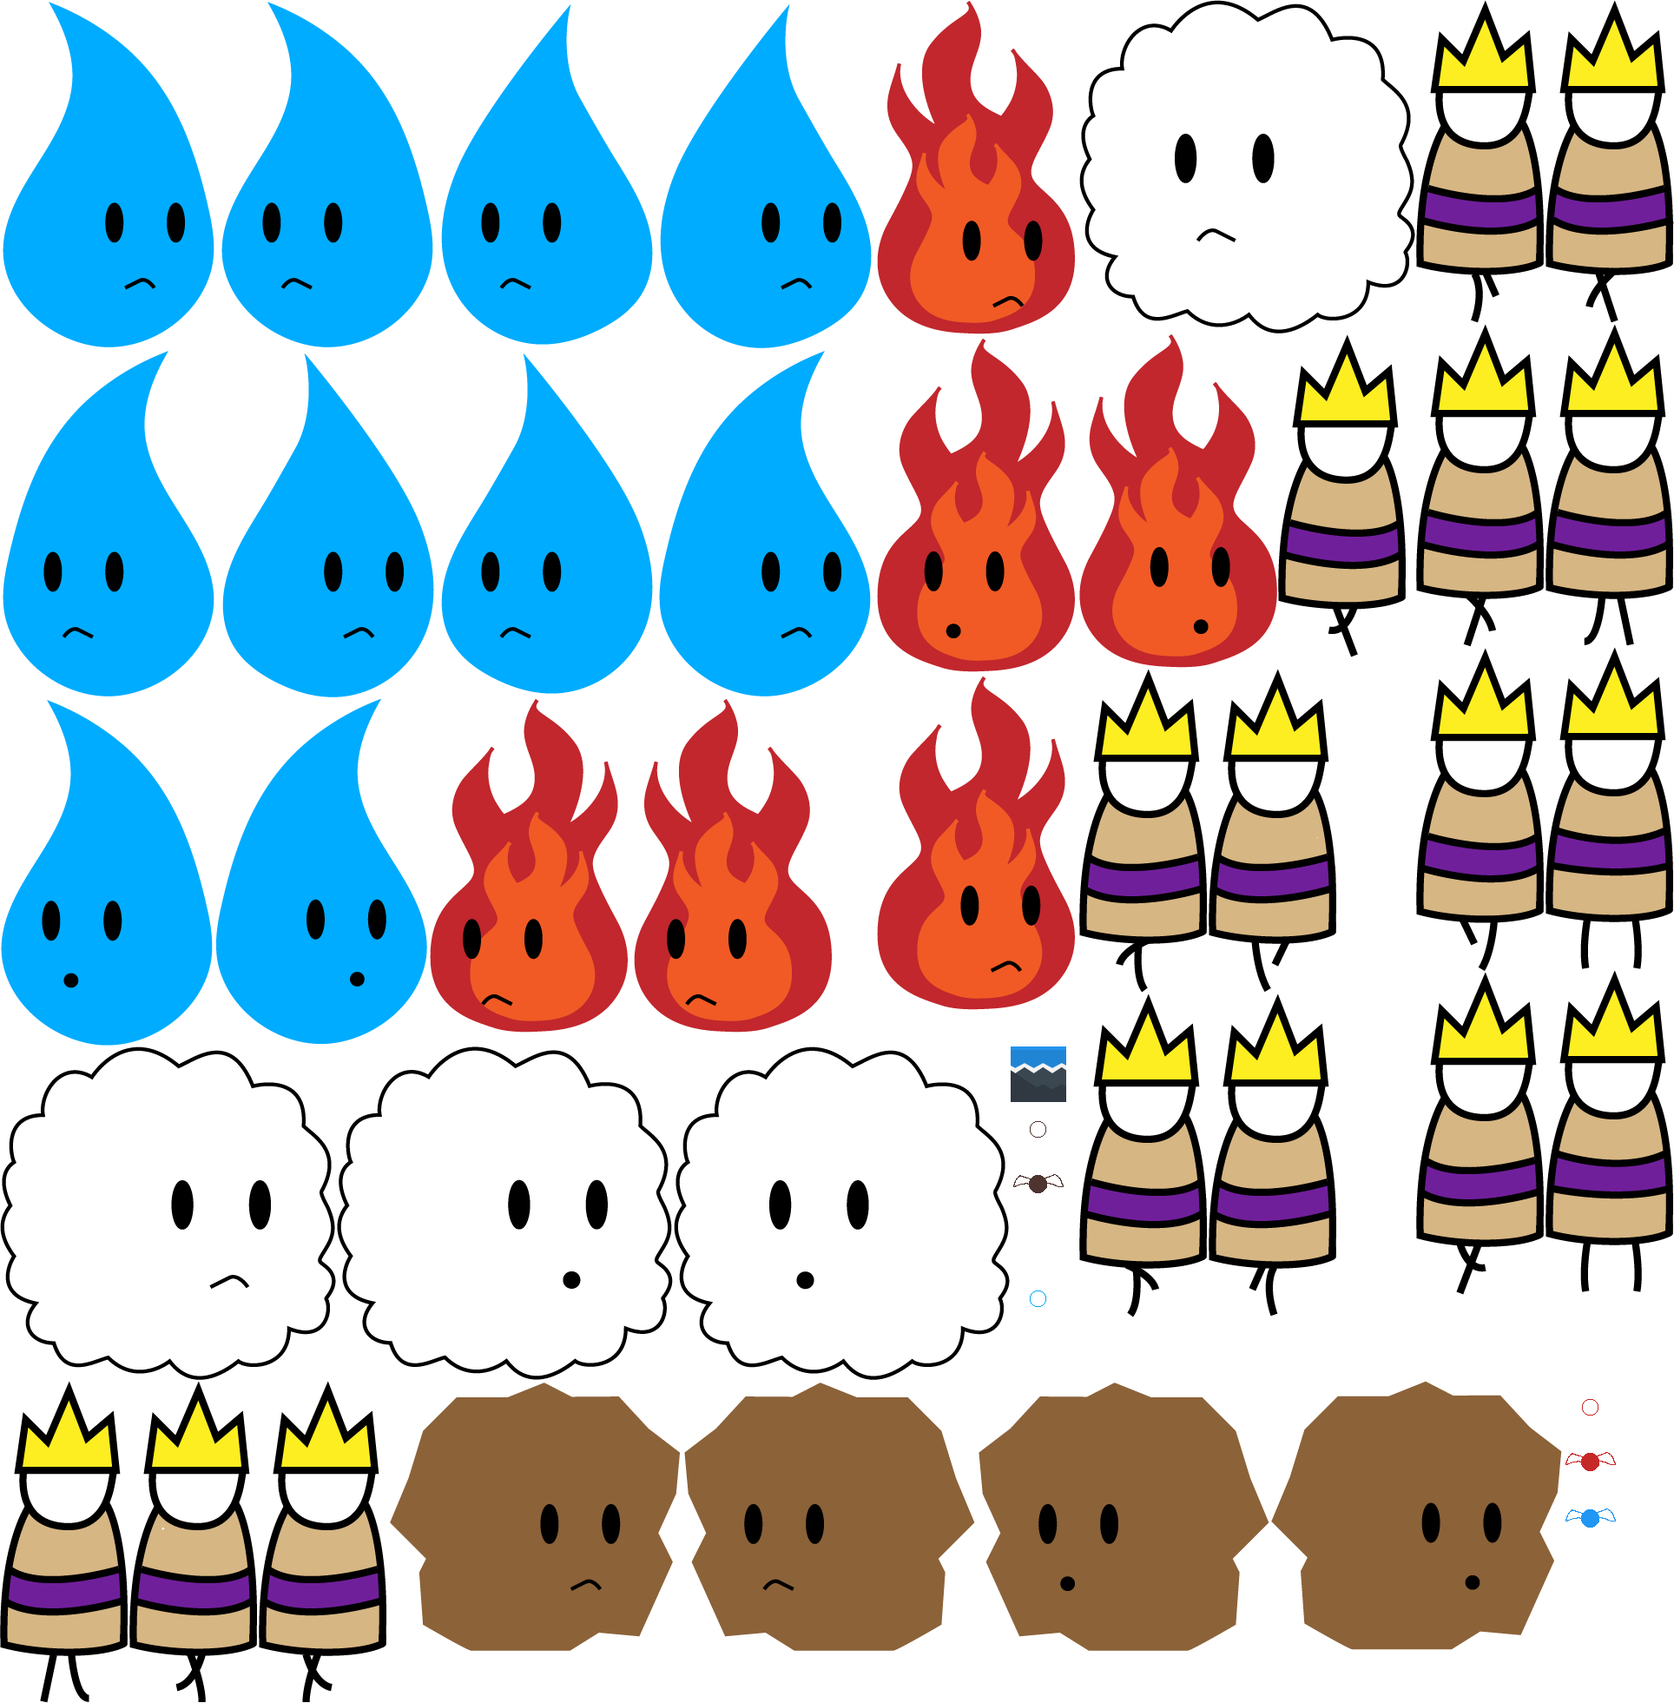
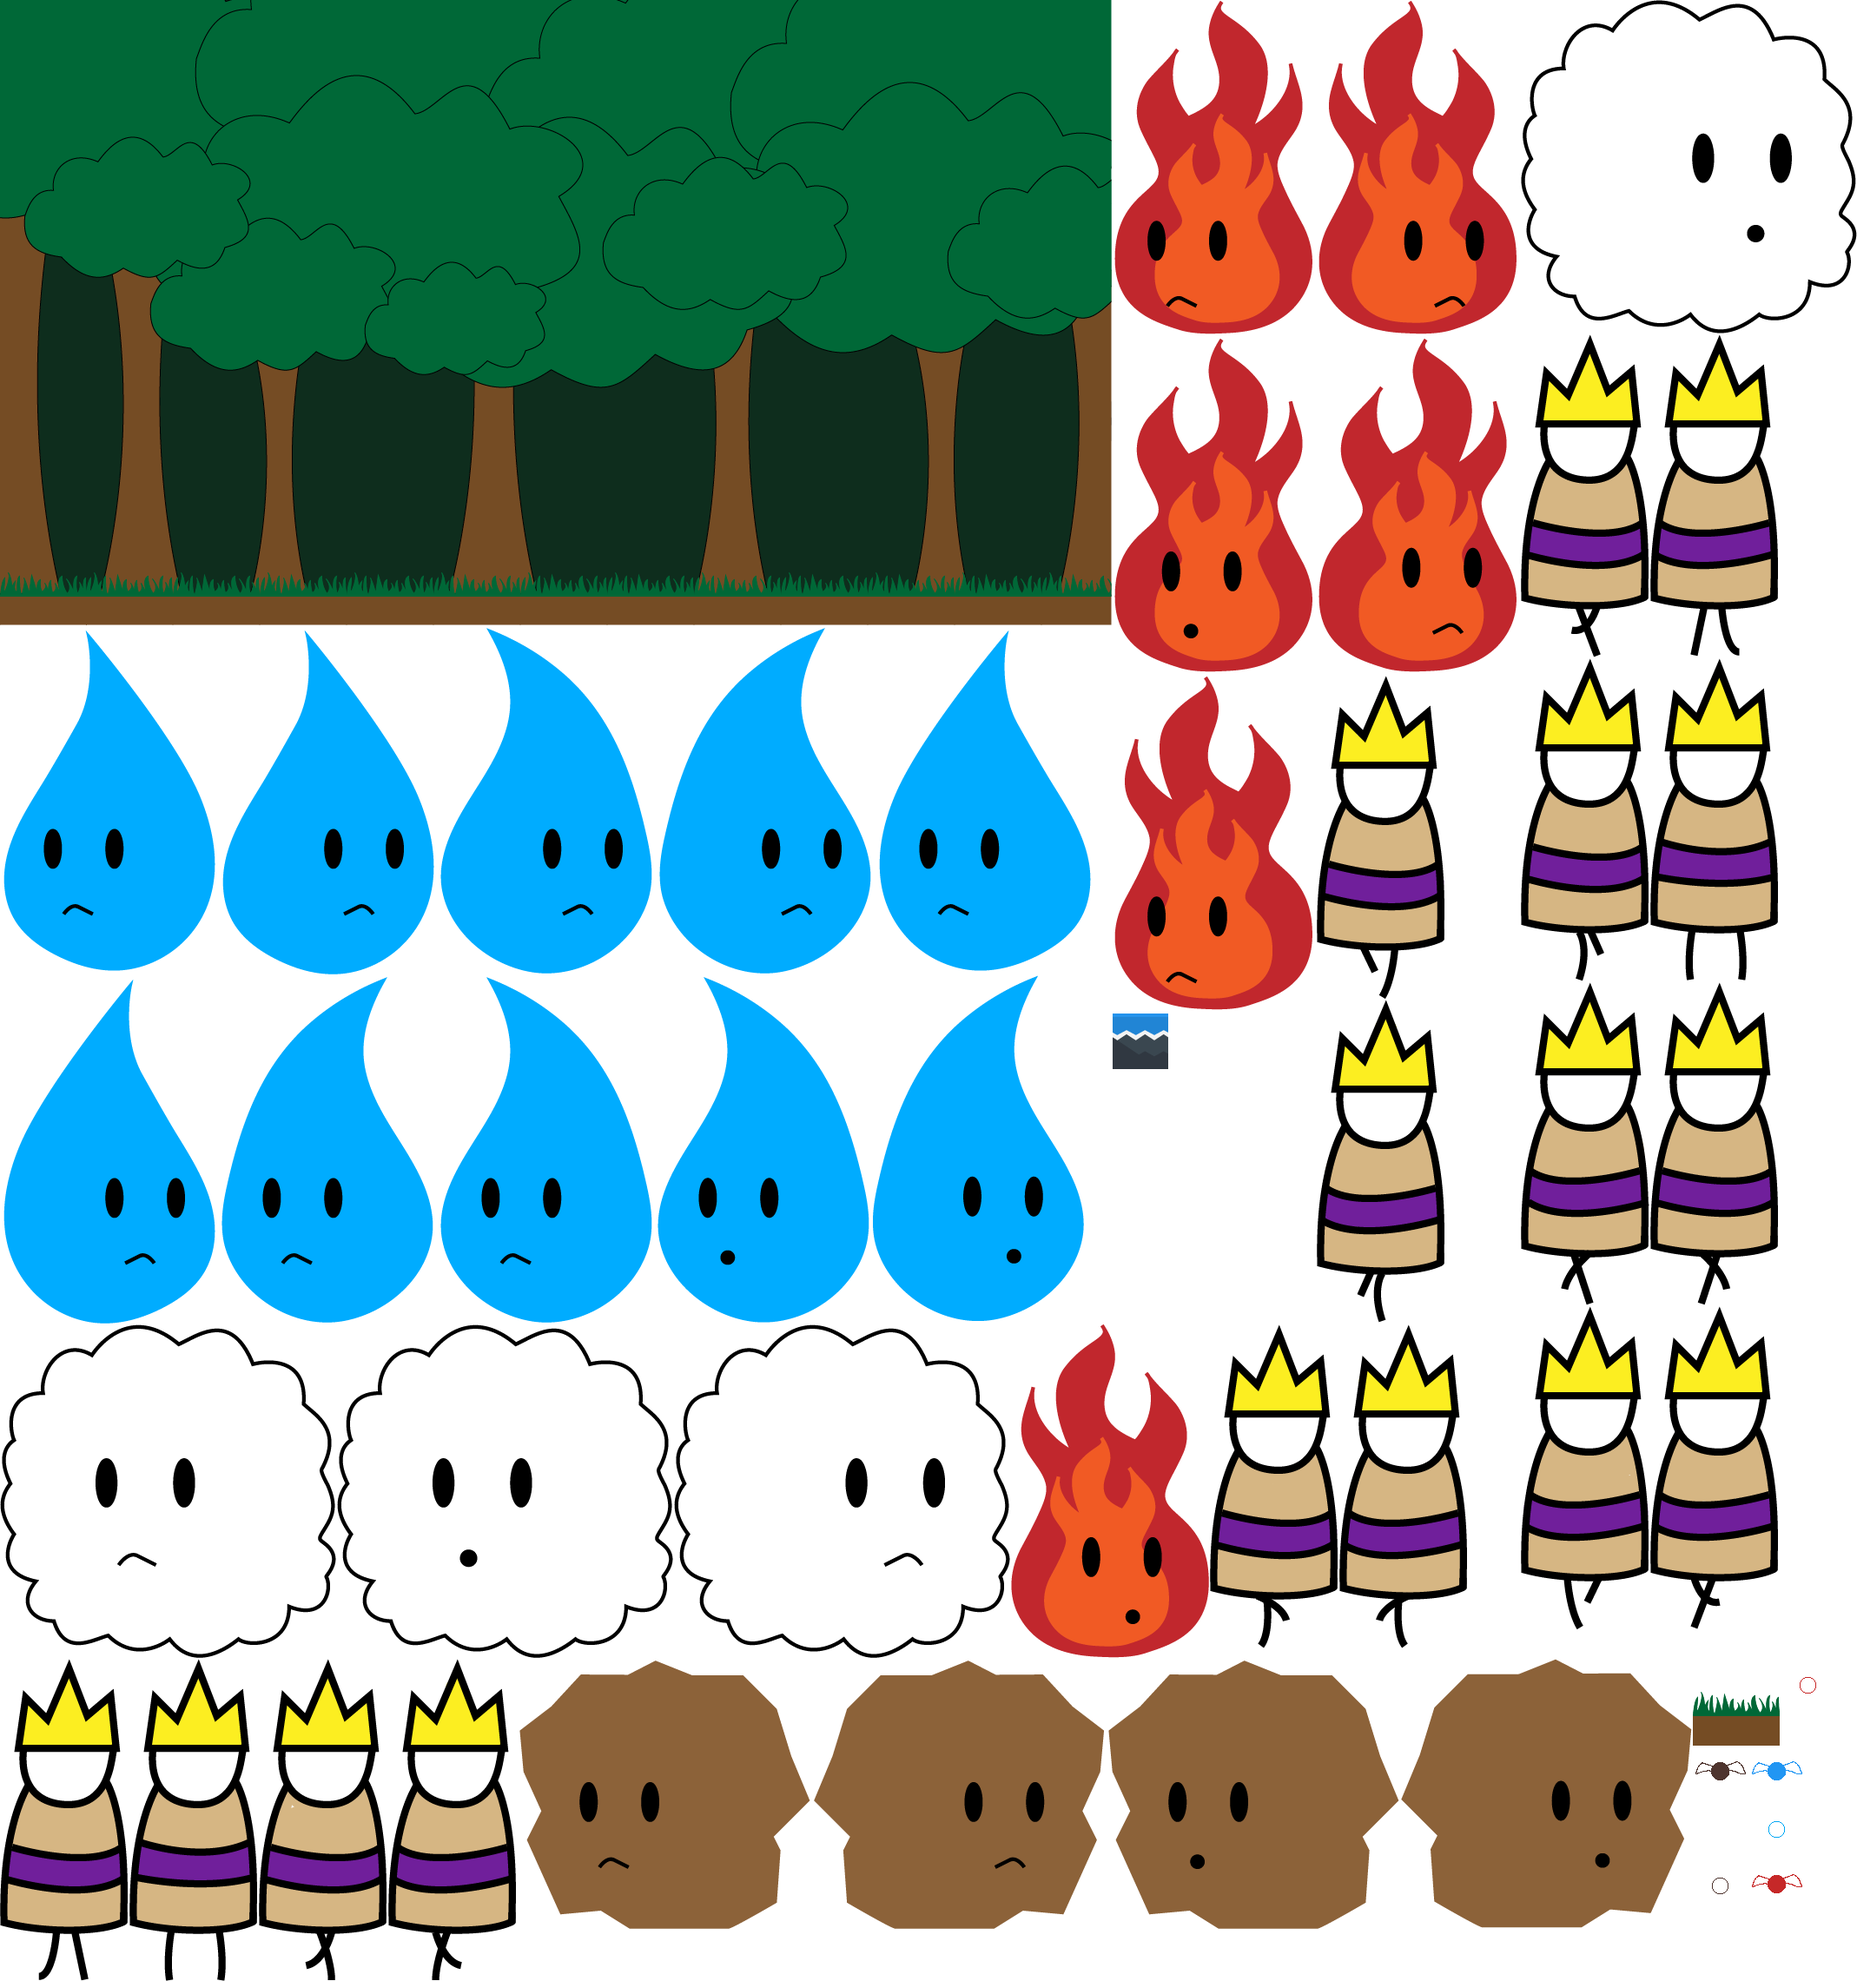
added forest art and ground

diff --git a/game/js/main.js b/game/js/main.js
@@ -1,4 +1,5 @@
-var game = new Phaser.Game(1280, 720, Phaser.CANVAS);
+var game = new Phaser.Game(1280, 720, Phaser.Auto);
+//1280 720 
 
 var right = false; //variable for if player moving right
 var left = false; //variable for if player moving left
@@ -79,13 +80,15 @@ GamePlay.prototype = {
 		gamePlayMusic.play('', 0, 1, true); //plays main game music on loop
 		// enables the Arcade Physics system
     	game.physics.startSystem(Phaser.Physics.ARCADE);
-    	game.stage.backgroundColor = "#228b22";
+    	//game.stage.backgroundColor = "#228b22";
+
+    	forest = game.add.tileSprite(0, 0, game.world.width, game.world.height, 'atlas', 'forest');
 
     	// Create platforms group
    		platforms = game.add.group();
     	platforms.enableBody = true; // Enable physics for any object that is created in this group
 
-		ground = game.add.tileSprite(0, game.world.height - 64, game.world.width, 64, 'atlas', 'tileBlue_22');
+		ground = game.add.tileSprite(0, game.world.height - 30, game.world.width, 64, 'atlas', 'ground');
     	game.physics.arcade.enable(ground); // Enable physics for the ground
     	ground.body.immovable = true; // Make the ground immovable (so the player can jump on it)
     	platforms.add(ground);
@@ -97,9 +100,9 @@ GamePlay.prototype = {
     	{
 			player = new Player(game, 'atlas', 'playerr0', 100, game.world.height - 160, 0.2) //add in a player object by calling Player prefab constructor
 			game.add.existing(player); //add in to world
-			//var waterMonster = monsters.add(new Monster(game, 'atlas', 'waterl1', 800, game.world.height - 100, 0.13, 'water', player));
+			var waterMonster = monsters.add(new Monster(game, 'atlas', 'waterl1', 800, game.world.height - 100, 0.13, 'water', player));
 
-			var earthMonster = monsters.add(new Monster(game, 'atlas', 'earthl', 800, game.world.height - 100, 0.13, 'earth', player));
+			//var earthMonster = monsters.add(new Monster(game, 'atlas', 'earthl', 800, game.world.height - 100, 0.13, 'earth', player));
 
 			//var fireMonster = monsters.add(new Monster(game, 'atlas', 'firel1', 800, game.world.height - 100, 0.13, 'fire', player));
 
@@ -136,10 +139,11 @@ GamePlay.prototype = {
 			if (state == 1)
 			{
 				//(xpos, ypos, width, height, key, frame)
-				var ledge = game.add.tileSprite(200, 500, 300, 48, 'atlas', 'tileBlue_22'); 
+				var ledge = game.add.tileSprite(200, 500, 300, 100, 'atlas', 'ground');
 				game.physics.arcade.enable(ledge);
 				ledge.body.immovable = true;
 				platforms.add(ledge);
+				ledge.body.setSize(ledge.body.width, ledge.body.height / 2 - 15, 0, 62);
 			}
 		}
 		//player.body.setSize(30, 52, 17, 8); //adjust player's hitbox to match sprite dimensions (width, height, offsetx, offsety) 
@@ -358,9 +362,10 @@ GamePlay.prototype = {
 	},
 	render: function() //this is just debug stuff
 	{
-		game.debug.body(player);
+		//game.debug.body(player);
 		game.debug.body(RightProjectile);
 		game.debug.body(monsters);
+		game.debug.physicsGroup(platforms);
 	},
 }
 

diff --git a/game/js/prefabs/Monster.js b/game/js/prefabs/Monster.js
@@ -238,7 +238,7 @@ Monster.prototype.update = function() //monster's update function
 
 	if (this.idol == true && this.health > 2)
 	{
-		this.rotation = 0;
+		//this.rotation = 0;
 		this.facingLeft = true;
 		this.body.velocity.x = -60;
 		this.body.collideWorldBounds = false;
